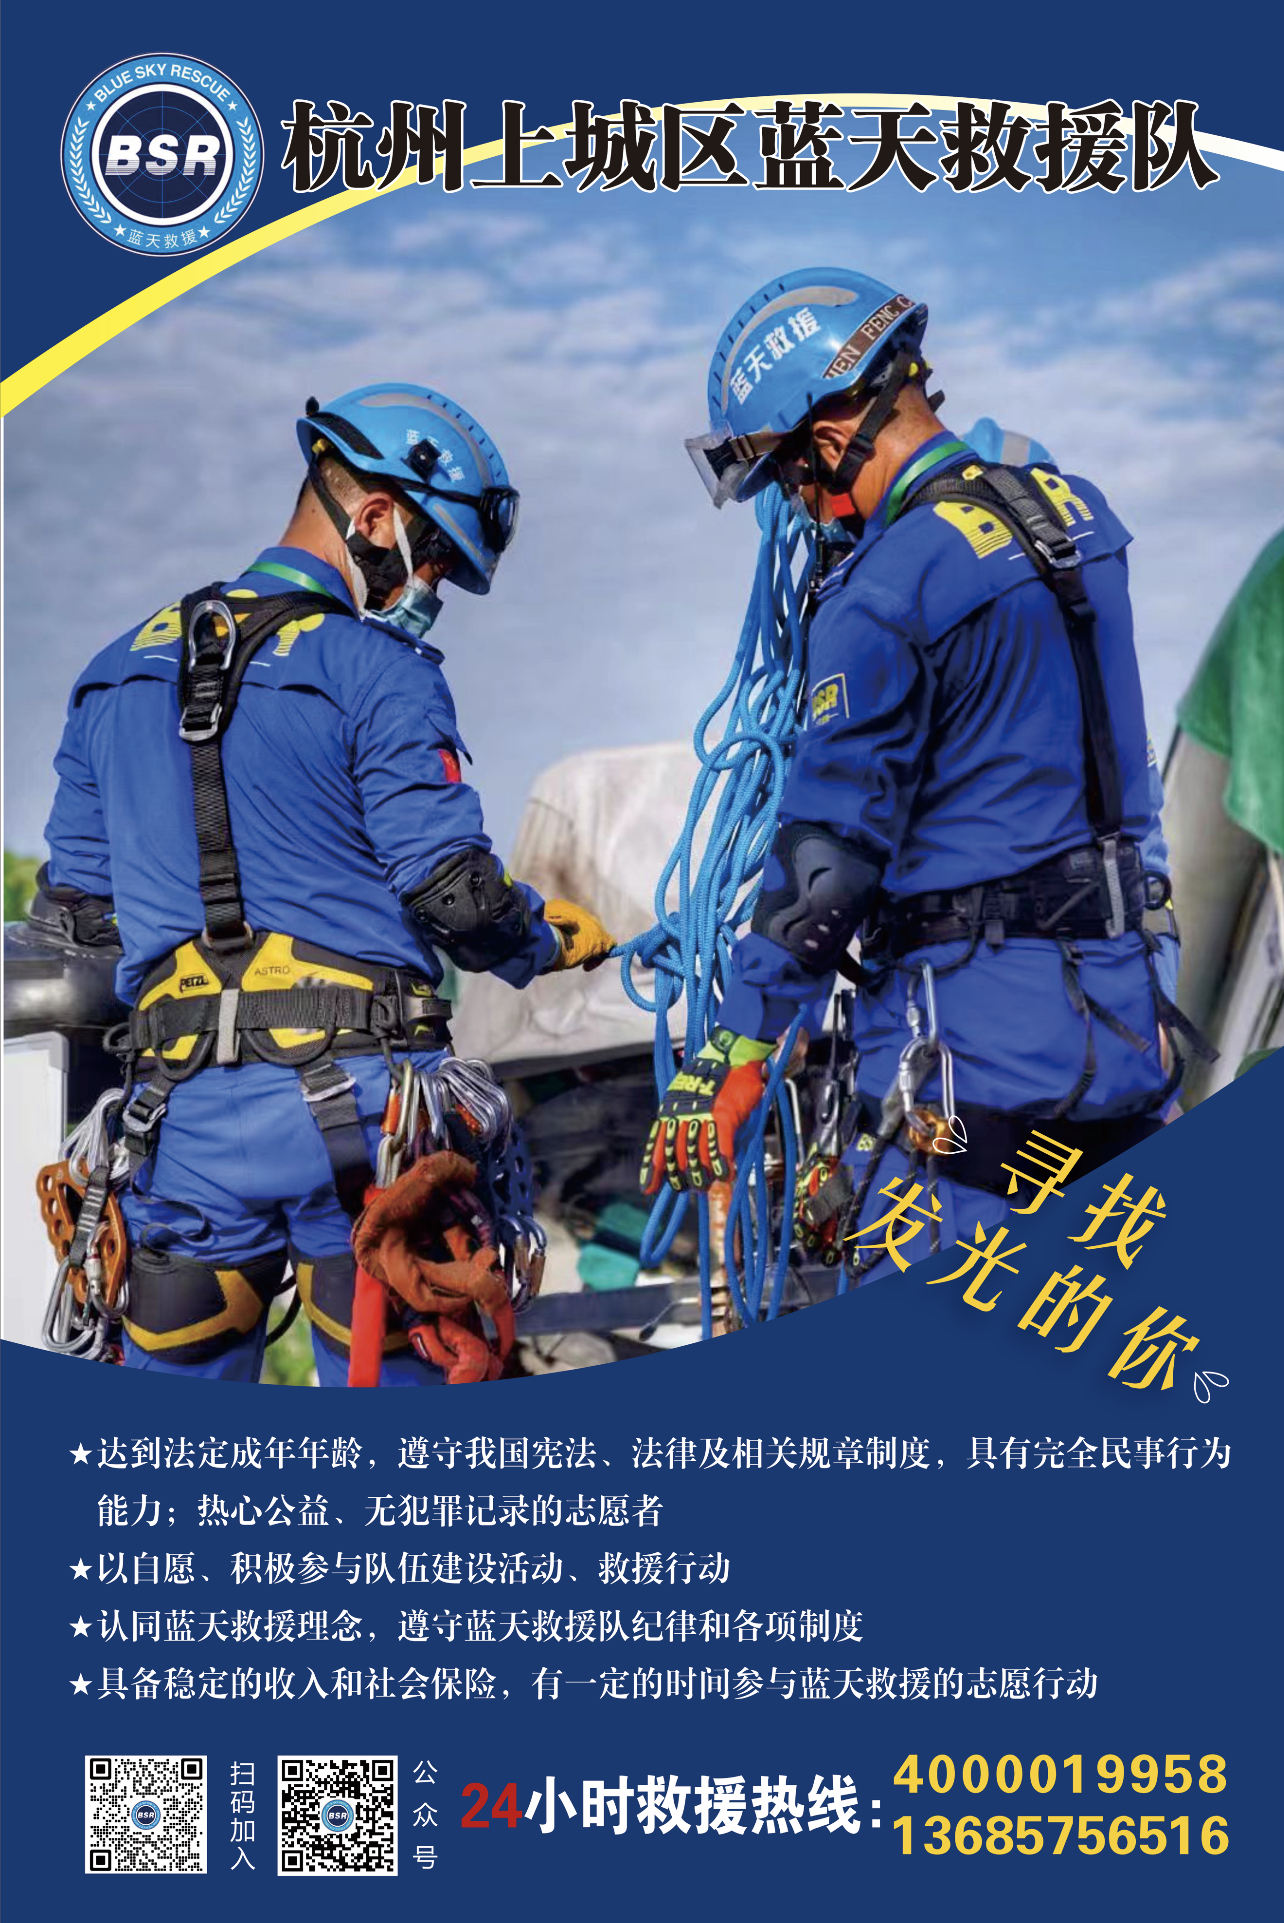
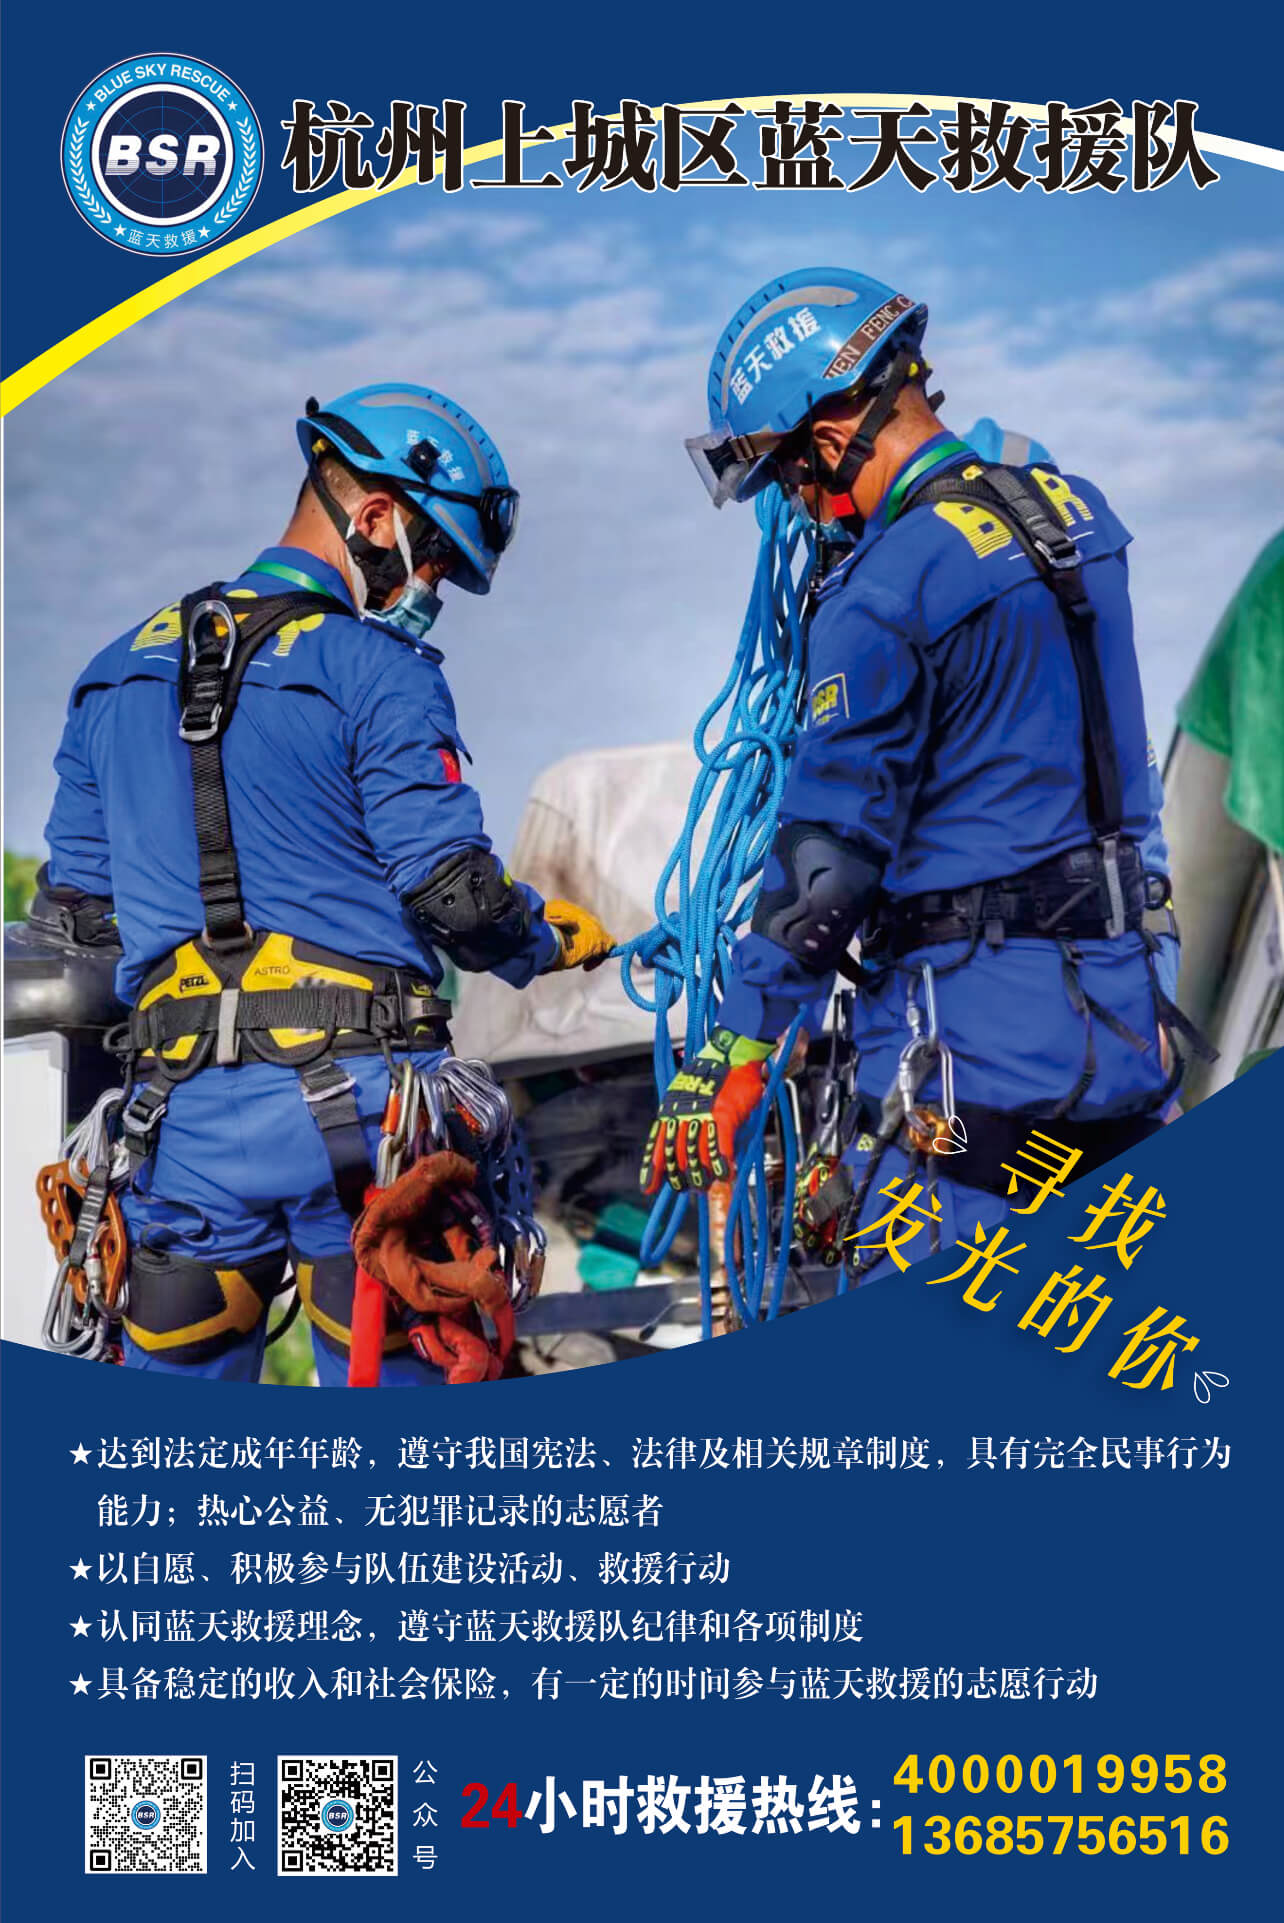
perf: 图片压缩

diff --git a/index.html b/index.html
@@ -4,7 +4,7 @@
     <meta charset="UTF-8">
     <link rel="icon" href="/favicon.ico">
     <meta name="viewport" content="width=device-width, initial-scale=1.0">
-    <title>Vite App</title>
+    <title>杭州上城区蓝天救援队</title>
   </head>
   <body>
     <div id="app"></div>
